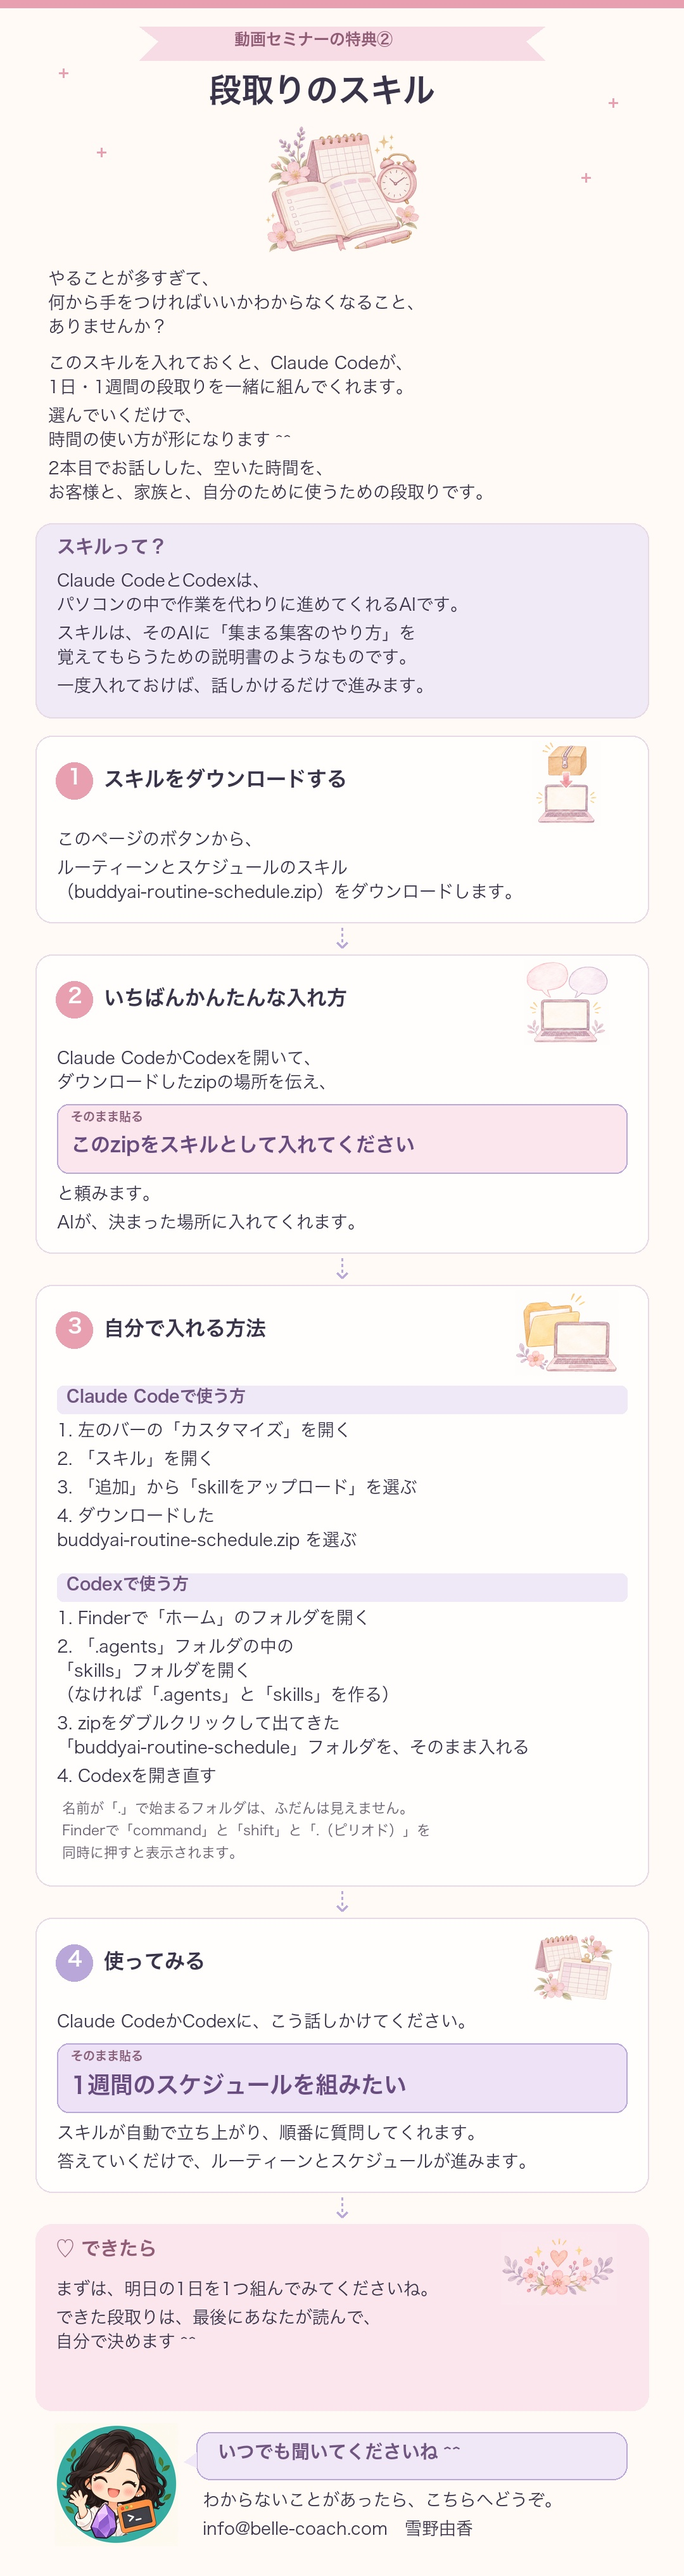
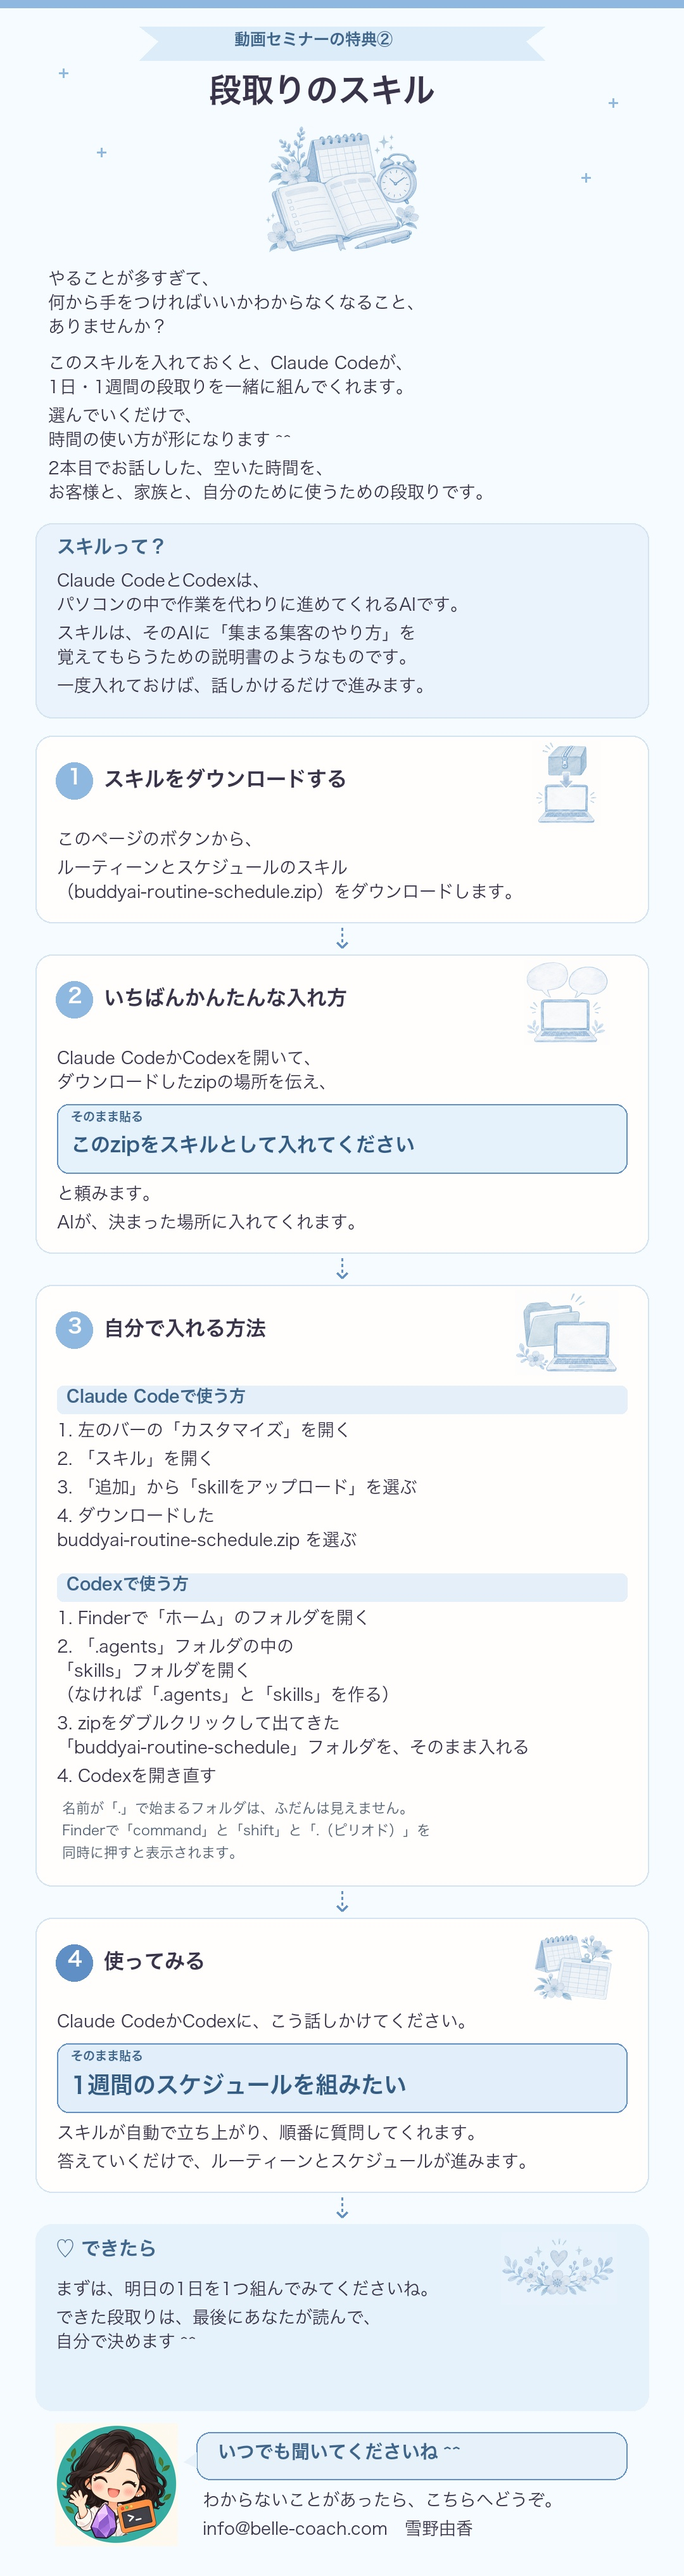
特典のページを色分け（リール＝ピンク・段取り＝青）し、設計会の特典（売れるポジション診断・緑）を追加

diff --git a/tokuten/dandori/index.html b/tokuten/dandori/index.html
@@ -4,24 +4,24 @@
 <meta charset="utf-8">
 <meta name="viewport" content="width=device-width,initial-scale=1">
 <meta name="robots" content="noindex">
-<title>段取りのスキル｜動画セミナーの特典</title>
+<title>段取りのスキル｜動画セミナーの特典②</title>
 <style>
 *{box-sizing:border-box}
-body{margin:0;background:#fdf8f3;color:#3b2f4a;font-family:-apple-system,BlinkMacSystemFont,"Hiragino Kaku Gothic ProN","Hiragino Sans","Noto Sans JP",sans-serif;line-height:1.8;font-size:15px}
+body{margin:0;background:#f4f8fd;color:#3b2f4a;font-family:-apple-system,BlinkMacSystemFont,"Hiragino Kaku Gothic ProN","Hiragino Sans","Noto Sans JP",sans-serif;line-height:1.8;font-size:15px}
 .wrap{max-width:720px;margin:0 auto;padding:24px 16px 48px}
 .head{text-align:center;margin:8px 0 18px}
-.head p{margin:0;color:#b5677e;font-weight:700;font-size:14px}
+.head p{margin:0;color:#4f7fb5;font-weight:700;font-size:14px}
 .head h1{margin:4px 0 0;font-size:24px}
-.btn{display:block;text-align:center;text-decoration:none;color:#fff;background:#d9809b;font-weight:700;font-size:17px;border-radius:99px;padding:16px 12px;margin:0 auto;max-width:480px;box-shadow:0 8px 20px rgba(217,128,155,.28)}
+.btn{display:block;text-align:center;text-decoration:none;color:#fff;background:#5f8fc4;font-weight:700;font-size:17px;border-radius:99px;padding:16px 12px;margin:0 auto;max-width:480px;box-shadow:0 8px 20px rgba(95,143,196,.28)}
 .btn:hover{filter:brightness(.96)}.btn:focus-visible{outline:3px solid #3b2f4a;outline-offset:5px}
-.note{text-align:center;font-size:13px;color:#7a6b86;margin:10px 0 22px}
+.note{text-align:center;font-size:13px;color:#6b6478;margin:10px 0 22px}
 .sheet{display:block;width:100%;height:auto;border-radius:16px;box-shadow:0 6px 18px rgba(59,47,74,.08)}
 .again{margin-top:26px}
 </style>
 </head>
 <body>
 <main class="wrap">
-<header class="head"><p>動画セミナーの特典</p><h1>段取りのスキル</h1></header>
+<header class="head"><p>動画セミナーの特典②</p><h1>段取りのスキル</h1></header>
 <a class="btn" href="https://drive.google.com/uc?export=download&id=1lth4Nc0dGOlVguw7AUKcDGyePKLTF-gx">スキルをダウンロードする（buddyai-routine-schedule.zip）</a>
 <p class="note">スキルは、パソコンで入れます。</p>
 <img class="sheet" src="tsukaikata.jpg" width="1080" alt="段取りのスキルの使い方。1 スキルをダウンロードする。2 Claude CodeかCodexに「このzipをスキルとして入れてください」と頼む。3 自分で入れる方法（Claude Codeは、カスタマイズ、スキル、追加、skillをアップロードでzipを選ぶ）。4 「1週間のスケジュールを組みたい」と話しかける。">

diff --git a/tokuten/position/index.html b/tokuten/position/index.html
@@ -1,0 +1,31 @@
+<!DOCTYPE html>
+<html lang="ja">
+<head>
+<meta charset="utf-8">
+<meta name="viewport" content="width=device-width,initial-scale=1">
+<meta name="robots" content="noindex">
+<title>売れるポジション診断のスキル｜設計会の特典</title>
+<style>
+*{box-sizing:border-box}
+body{margin:0;background:#f5faf5;color:#3b2f4a;font-family:-apple-system,BlinkMacSystemFont,"Hiragino Kaku Gothic ProN","Hiragino Sans","Noto Sans JP",sans-serif;line-height:1.8;font-size:15px}
+.wrap{max-width:720px;margin:0 auto;padding:24px 16px 48px}
+.head{text-align:center;margin:8px 0 18px}
+.head p{margin:0;color:#4f8a64;font-weight:700;font-size:14px}
+.head h1{margin:4px 0 0;font-size:24px}
+.btn{display:block;text-align:center;text-decoration:none;color:#fff;background:#5e9e76;font-weight:700;font-size:17px;border-radius:99px;padding:16px 12px;margin:0 auto;max-width:480px;box-shadow:0 8px 20px rgba(94,158,118,.28)}
+.btn:hover{filter:brightness(.96)}.btn:focus-visible{outline:3px solid #3b2f4a;outline-offset:5px}
+.note{text-align:center;font-size:13px;color:#6b6478;margin:10px 0 22px}
+.sheet{display:block;width:100%;height:auto;border-radius:16px;box-shadow:0 6px 18px rgba(59,47,74,.08)}
+.again{margin-top:26px}
+</style>
+</head>
+<body>
+<main class="wrap">
+<header class="head"><p>設計会の特典</p><h1>売れるポジション診断のスキル</h1></header>
+<a class="btn" href="https://drive.google.com/uc?export=download&id=1PLnrIWcKJy5dqbysR4ZMbix4Q3caOMWC">スキルをダウンロードする（buddyai-hit-position.zip）</a>
+<p class="note">スキルは、パソコンで入れます。</p>
+<img class="sheet" src="tsukaikata.jpg" width="1080" alt="売れるポジション診断のスキルの使い方。1 スキルをダウンロードする。2 Claude CodeかCodexに「このzipをスキルとして入れてください」と頼む。3 自分で入れる方法（Claude Codeは、カスタマイズ、スキル、追加、skillをアップロードでzipを選ぶ）。4 「ヒットポジション診断スタート」と話しかける。">
+<div class="again"><a class="btn" href="https://drive.google.com/uc?export=download&id=1PLnrIWcKJy5dqbysR4ZMbix4Q3caOMWC">スキルをダウンロードする（buddyai-hit-position.zip）</a></div>
+</main>
+</body>
+</html>

diff --git a/tokuten/reel/index.html b/tokuten/reel/index.html
@@ -4,7 +4,7 @@
 <meta charset="utf-8">
 <meta name="viewport" content="width=device-width,initial-scale=1">
 <meta name="robots" content="noindex">
-<title>リール台本のスキル｜動画セミナーの特典</title>
+<title>リール台本のスキル｜動画セミナーの特典①</title>
 <style>
 *{box-sizing:border-box}
 body{margin:0;background:#fdf8f3;color:#3b2f4a;font-family:-apple-system,BlinkMacSystemFont,"Hiragino Kaku Gothic ProN","Hiragino Sans","Noto Sans JP",sans-serif;line-height:1.8;font-size:15px}
@@ -14,14 +14,14 @@ body{margin:0;background:#fdf8f3;color:#3b2f4a;font-family:-apple-system,BlinkMa
 .head h1{margin:4px 0 0;font-size:24px}
 .btn{display:block;text-align:center;text-decoration:none;color:#fff;background:#d9809b;font-weight:700;font-size:17px;border-radius:99px;padding:16px 12px;margin:0 auto;max-width:480px;box-shadow:0 8px 20px rgba(217,128,155,.28)}
 .btn:hover{filter:brightness(.96)}.btn:focus-visible{outline:3px solid #3b2f4a;outline-offset:5px}
-.note{text-align:center;font-size:13px;color:#7a6b86;margin:10px 0 22px}
+.note{text-align:center;font-size:13px;color:#6b6478;margin:10px 0 22px}
 .sheet{display:block;width:100%;height:auto;border-radius:16px;box-shadow:0 6px 18px rgba(59,47,74,.08)}
 .again{margin-top:26px}
 </style>
 </head>
 <body>
 <main class="wrap">
-<header class="head"><p>動画セミナーの特典</p><h1>リール台本のスキル</h1></header>
+<header class="head"><p>動画セミナーの特典①</p><h1>リール台本のスキル</h1></header>
 <a class="btn" href="https://drive.google.com/uc?export=download&id=1UP1D4kF8wuRenKjvS-DSod7d_2AN5khq">スキルをダウンロードする（buddyai-reel-daihon.zip）</a>
 <p class="note">スキルは、パソコンで入れます。</p>
 <img class="sheet" src="tsukaikata.jpg" width="1080" alt="リール台本のスキルの使い方。1 スキルをダウンロードする。2 Claude CodeかCodexに「このzipをスキルとして入れてください」と頼む。3 自分で入れる方法（Claude Codeは、カスタマイズ、スキル、追加、skillをアップロードでzipを選ぶ）。4 「リールの台本を作りたい」と話しかける。">
